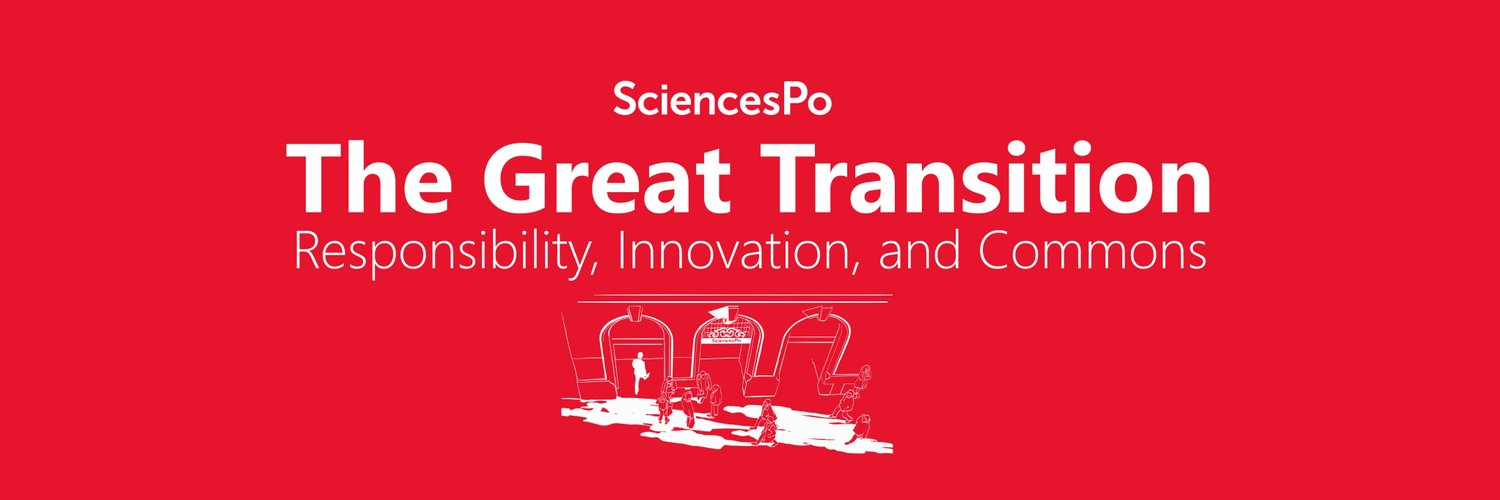
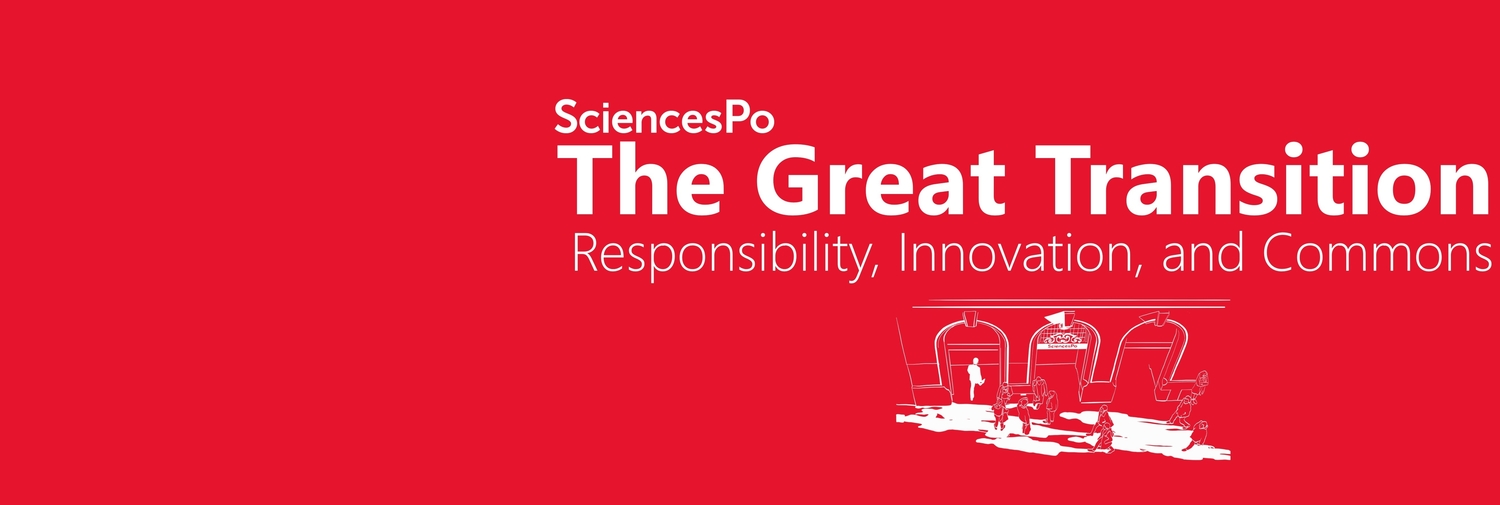
initial commit

Changed region(s): [[0.184, 0.15, 1.0, 0.93]]

diff --git a/assets/css/style.scss b/assets/css/style.scss
@@ -1,6 +1,6 @@
 ---
 ---
-$cover-image: url('../images/cover2.jpg');
+$cover-image: url('../images/cover.jpg');
 // Breakpoints
 $large-breakpoint: 64em !default;
 $medium-breakpoint: 42em !default;
